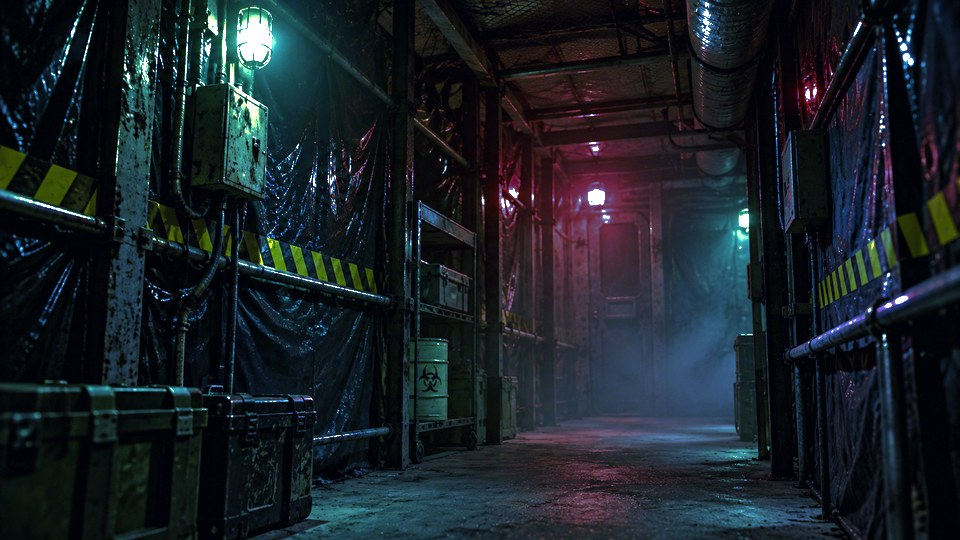
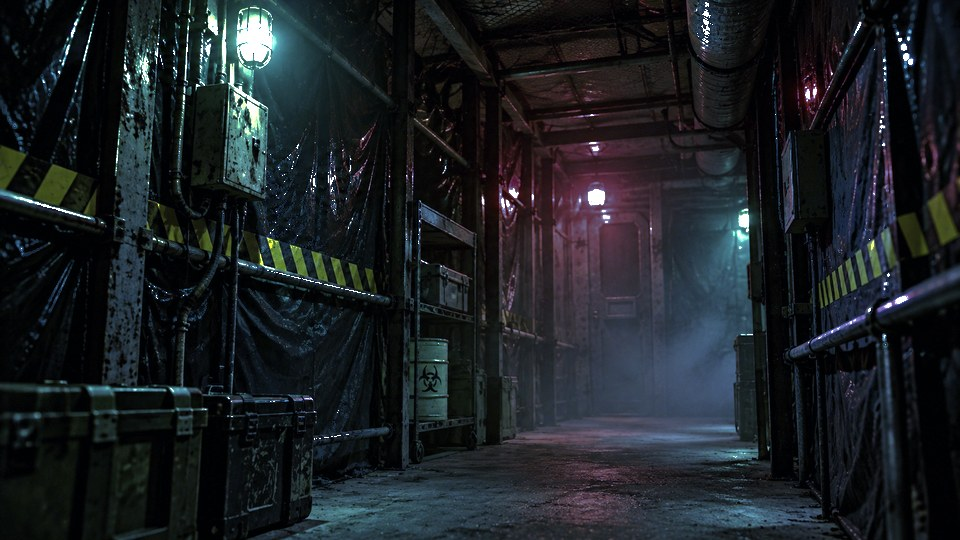
Less colour, and sink the fog harder
Overall saturation down from ~55 to ~34, with bright sources held out so
the red and green practicals keep their colour. Fog attenuation up from
0.45 to 0.80 and run twice, which flattens the shadows — an accepted
trade for the heavier haze in these renders.

Adds tools/grade_cams.py so the grade is a repeatable two-number dial
rather than something that has to be redone by hand. It always rebuilds
from the PNG originals, so repeated runs never stack.

Claude-Session: https://claude.ai/code/session_01DVDN31GEKkWfCJx3RtTzzf

diff --git a/tools/grade_cams.py b/tools/grade_cams.py
@@ -1,0 +1,63 @@
+from PIL import Image
+import numpy as np, sys
+HAZE=float(sys.argv[1]); T_SAT=float(sys.argv[2]); OUT=sys.argv[3] if len(sys.argv)>3 else None
+PAIRS=[('cam1.jpg','cam1_cam.jpg'),('corridor0.png','corridor0_cam.jpg'),
+ ('corridor5.jpg','corridor5_cam.jpg'),('external1.png','external1_cam.jpg'),
+ ('lab_a1_1.png','lab_a1_1_cam.jpg'),('lab_b1_1.png','lab_b1_1_cam.jpg'),
+ ('specimen1.png','specimen1_cam.jpg'),('corridor1.png','corridor1_cam.jpg'),
+ ('containment1.png','containment1_cam.jpg'),('containment2.png','containment2_cam.jpg'),
+ ('armory1.png','armory1_cam.jpg'),('cam3.jpg','cam3_cam.jpg'),
+ ('vent7.png','vent7_cam.jpg'),('storage2.png','storage2_cam.jpg'),
+ ('corridor3.png','corridor3_cam.jpg'),('storage3.png','storage3_cam.jpg')]
+T_WHITE,T_MEAN,T_P25,T_RB,T_GB=180.0,32.7,7.0,-15.9,-7.3
+def luma(a): return .299*a[...,0]+.587*a[...,1]+.114*a[...,2]
+def sm(x,a,b):
+    t=np.clip((x-a)/(b-a),0,1);return t*t*(3-2*t)
+def tint(a,g):
+    keep=sm(luma(a),150.,235.)[...,None]
+    return np.clip(a*(1.0+(np.asarray(g)-1.0)*(1.0-keep)),0,255)
+def expose(a,t):
+    m=max(luma(a).mean(),1.)
+    return np.clip(255.*np.power(np.clip(a,0,255)/255.,np.clip(np.log(t/255.)/np.log(m/255.),0.5,1.9)),0,255)
+for src,dst in PAIRS:
+    im=Image.open('media/'+src).convert('RGB')
+    w,h=im.size;tr=960/540
+    if w/h>tr: nw=int(h*tr);im=im.crop(((w-nw)//2,0,(w-nw)//2+nw,h))
+    else: nh=int(w/tr);im=im.crop((0,(h-nh)//2,w,(h-nh)//2+nh))
+    a=np.asarray(im.resize((960,540),Image.LANCZOS),dtype=np.float32)
+    y=luma(a);a=np.clip(a-np.percentile(y,0.5),0,None)
+    y=luma(a);a=np.clip(a*(T_WHITE/max(np.percentile(y,99),1.)),0,255)
+    a=expose(a,T_MEAN)
+    for _ in range(2):                                  # sink the fog
+        y=luma(a);mx,mn=a.max(2),a.min(2)
+        s=np.where(mx>0,(mx-mn)/np.maximum(mx,1),0)
+        w_h=(sm(y,28.,80.)*(1.0-sm(y,155.,220.))*(1.0-sm(s,0.14,0.44)))[...,None]
+        a=np.clip(a*(1.0-HAZE*w_h),0,255)
+    y=luma(a);sh=(1.0-sm(y,10.,90.))[...,None]
+    need=max(0.,T_P25-np.percentile(y,25))
+    a=np.clip(a+sh*np.array([0.2,0.5,1.0])*need*1.5,0,255)
+    a=expose(a,T_MEAN)
+    for _ in range(6):
+        R,G,B=a[...,0].mean(),a[...,1].mean(),a[...,2].mean()
+        dRB,dGB=(R-B)-T_RB,(G-B)-T_GB
+        if abs(dRB)<0.4 and abs(dGB)<0.4: break
+        a=tint(a,[1-0.45*dRB/max(R,1),1-0.45*dGB/max(G,1),1.0])
+        a=np.clip(a*(T_WHITE/max(np.percentile(luma(a),99),1.)),0,255)
+        a=expose(a,T_MEAN)
+    mx,mn=a.max(2),a.min(2)                             # overall colour level
+    s=np.where(mx>0,(mx-mn)/np.maximum(mx,1),0).mean()*100
+    keep=sm(luma(a),165.,240.)[...,None]
+    k=float(np.clip(T_SAT/max(s,1.),0.3,1.3))
+    gy=luma(a)[...,None]
+    a=np.clip(gy+(a-gy)*(k+(1.0-k)*keep),0,255)
+    Image.fromarray(a.astype(np.uint8)).save((OUT+'/' if OUT else 'media/')+dst,quality=88,optimize=True)
+
+# Usage, run from the repo root:
+#   python3 tools/grade_cams.py <haze> <saturation> [outdir]
+#
+#   haze        how hard to sink the fog. 0 = leave it, 0.80 = current, 1.0 = max
+#   saturation  overall colour level. 34 = current, 44 = more colour,
+#               54 = the original reference screenshot
+#   outdir      write somewhere else to compare before replacing media/
+#
+# Always regrades from the PNG originals, so running it again never stacks.
